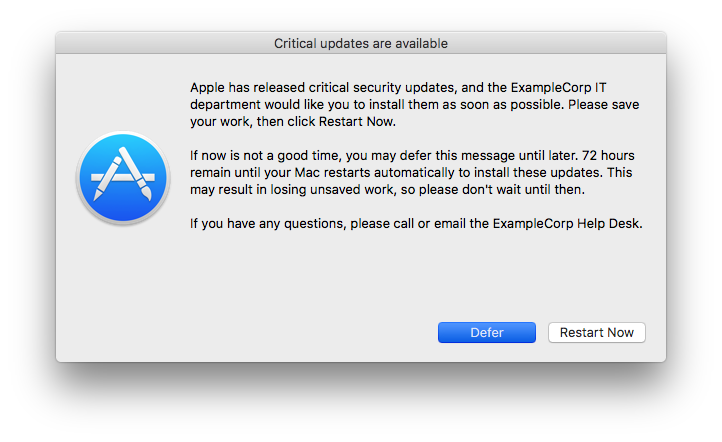
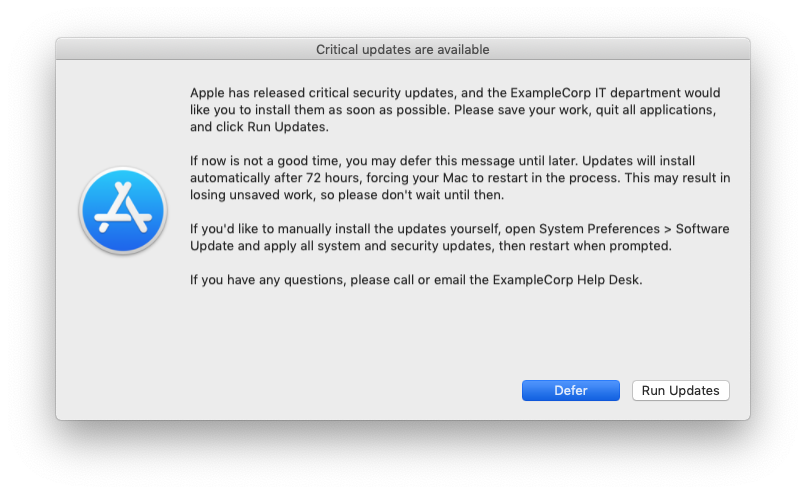
updated screenshots
- updated screenshots to reflect current script behavior

Changed region(s): [[0.0609, 0.0882, 0.9446, 0.8529], [0.2133, 0.5588, 0.7922, 0.5882], [0.3657, 0.0588, 0.6399, 0.1176]]

diff --git a/README.md b/README.md
@@ -38,7 +38,7 @@ Here's how everything works, once it's configured:
     5. When the user clicks __Run Updates__, the script runs the cached software updates.
 5. If the deferral deadline passes, the script behaves differently:
     1. The user sees a non-dismissible prompt asking them to run updates immediately.
-        ![Run Updates](img/restart-now.png)
+        ![Run Updates Now](img/run-updates-now.png)
     2. If the user ignores the update prompt for 10 minutes, the script applies the cached updates in the background.
 6. After the updates are done installing, if a restart is required:
     1. A "soft" restart is attempted.
@@ -278,7 +278,8 @@ Create the following two policies:
 
 12. You should see the install/defer prompt appear again.
 
-13. Click __Run Updates__. As long as there are no apps with unsaved changes, the Mac will run updates in the background.
+13. Click __Run Updates__. As long as there are no apps with unsaved changes, the Mac will run updates in the background. You should see the following prompt appear onscreen:
+    ![Running Updates](img/running-updates.png)
     - If you want to test the "hard restart" feature of this framework, open Terminal and type `top` before clicking the __Run Updates__ button. Then wait 5 minutes and confirm that the Mac restarts successfully.
 
 14. After updates are installed and (optionally) the Mac is successfully restarted, you should not see any more onscreen messages.
